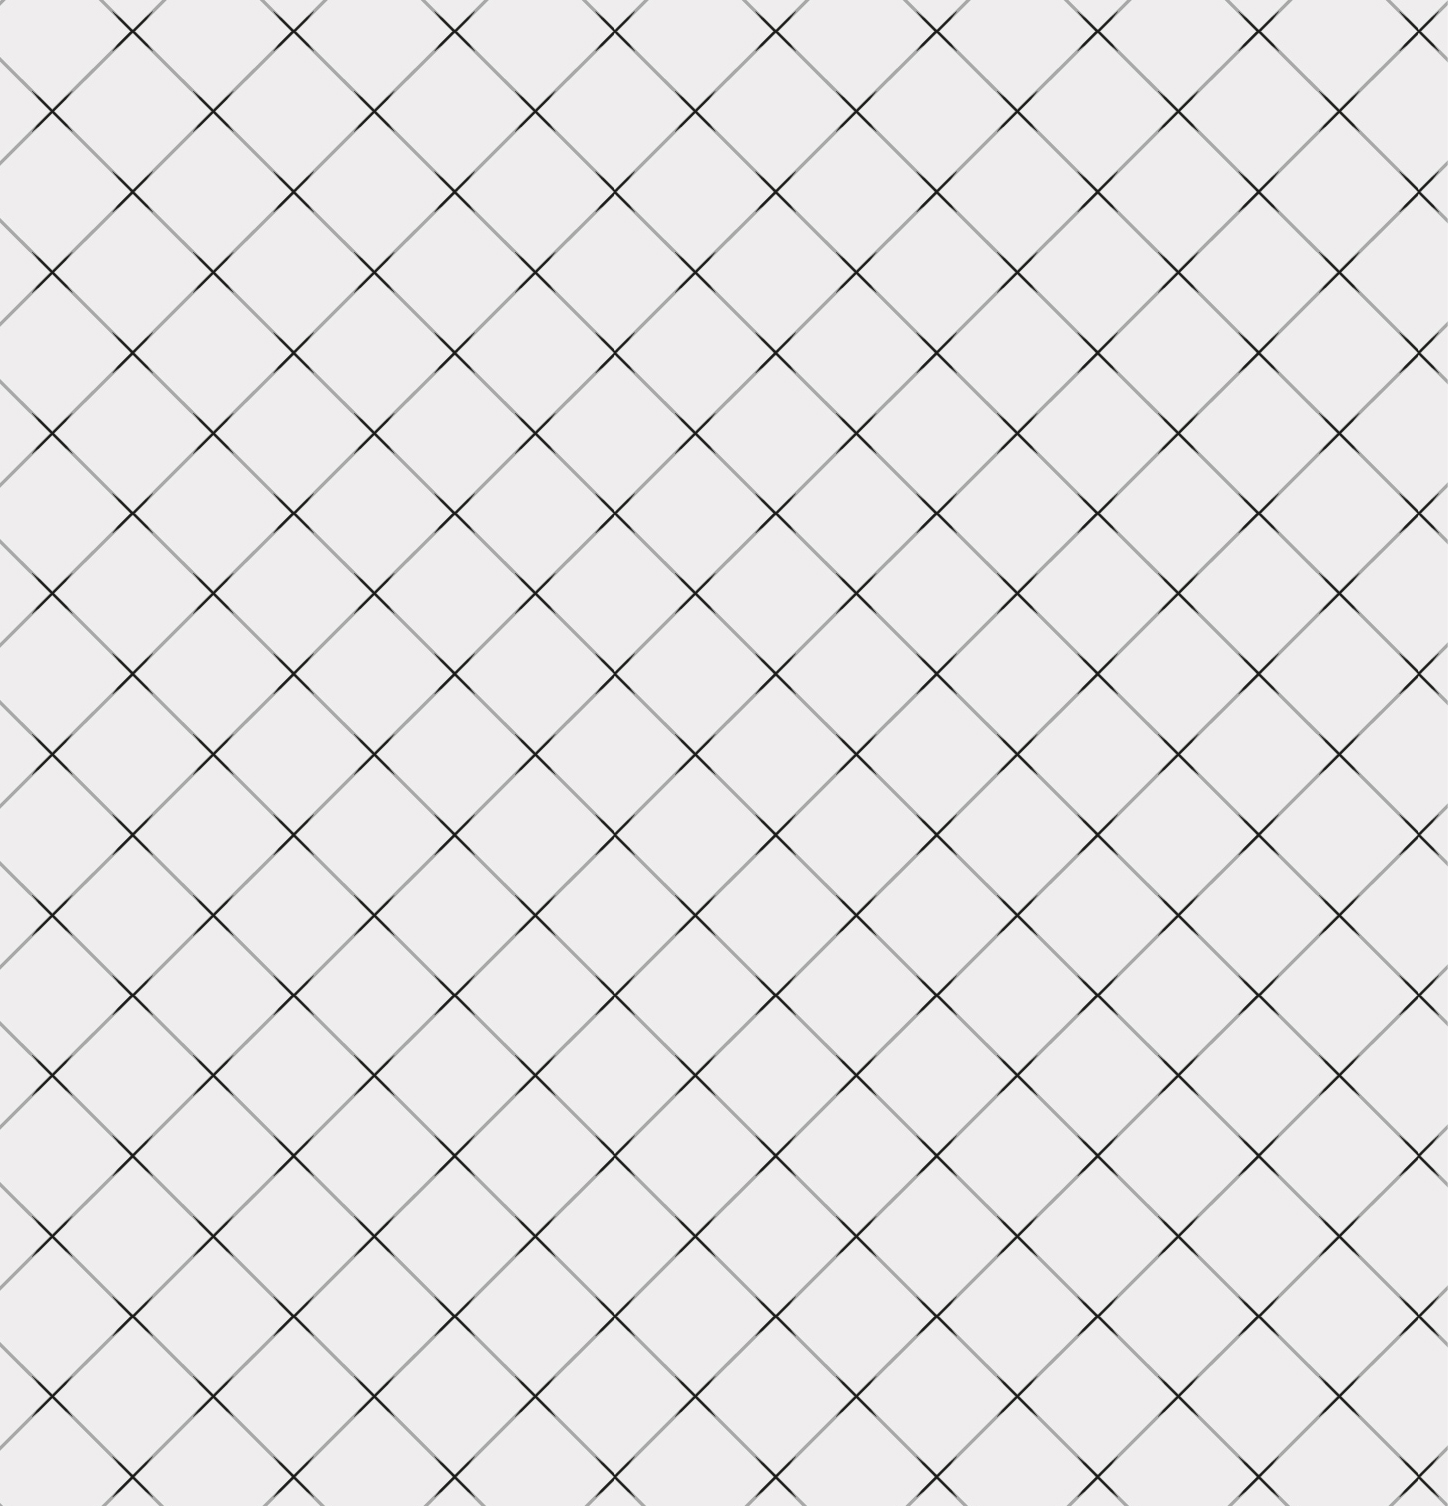
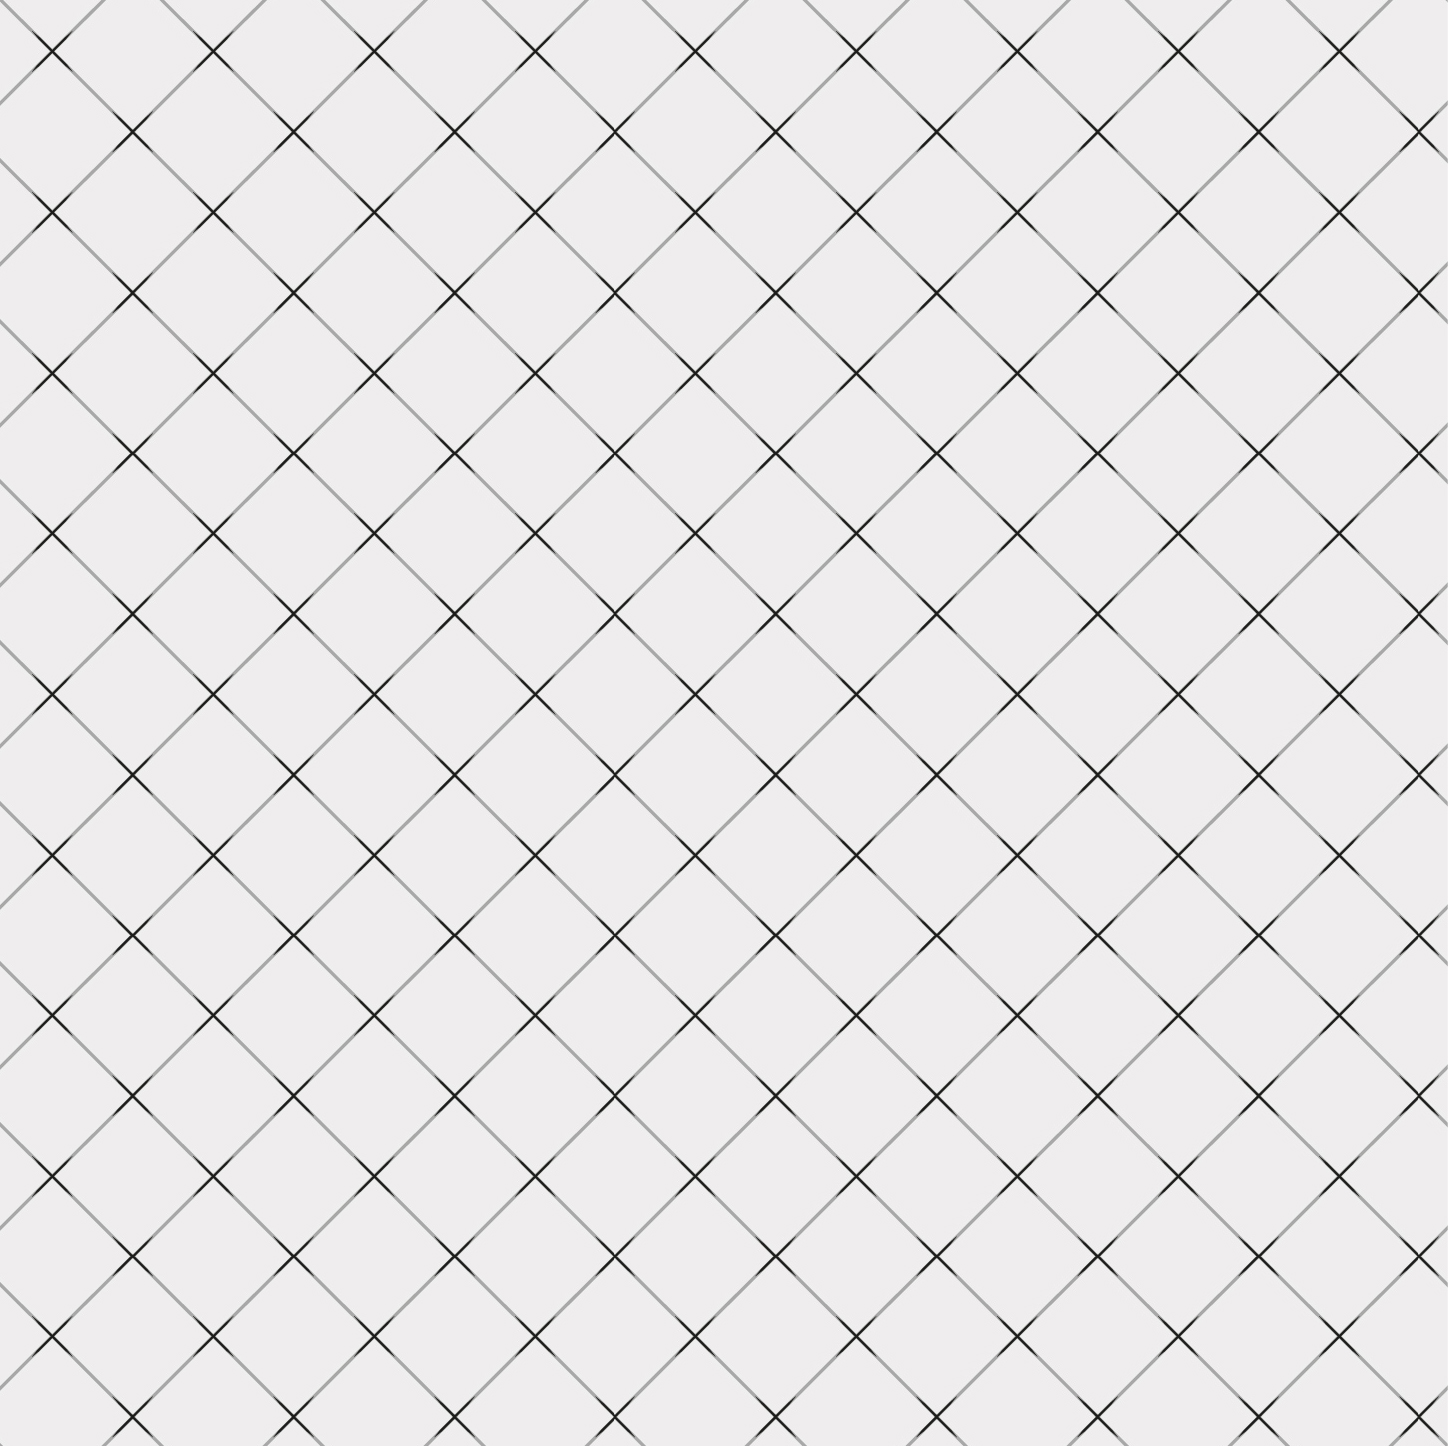
updated index.handndlebars

diff --git a/controller/controller.js b/controller/controller.js
@@ -12,14 +12,14 @@ var Comment = require('../models/Comment.js');
 var Article = require('../models/Article.js');
 
 //index
-router.get("/", function(req, res) {
-    res.render("index");
+router.get('/', function(req, res) {
+    res.render('index');
 });
 
 // A GET request to scrape the CNN website
-router.get("/scrape", function(req, res) {
+router.get('/scrape', function(req, res) {
     // First, we grab the body of the html with request
-    request("http://www.theverge.com/tech", function(error, response, html) {
+    request('http://www.theverge.com/tech', function(error, response, html) {
         // Then, we load that into cheerio and save it to $ for a shorthand selector
         var $ = cheerio.load(html);
         // Now, we grab every article
@@ -31,36 +31,46 @@ router.get("/scrape", function(req, res) {
             result.title = $(this).children('a').text();
             result.link = $(this).children('a').attr('href');
 
-            //grab body of article from scraped link
-            request(result.link, function(error, response, html) {
-                $('.c-entry-content').each(function(i, element) {
-                    result.body = $(this).children('p').text();
-                });
-            });
             // Using our Article model, create a new entry
             // This effectively passes the result object to the entry (and the title and link)
             var entry = new Article(result);
-                    console.log(entry);
-                    // Now, save that entry to the db
-                    entry.save(function(err, doc) {
-                        // Log any errors
-                        if (err) {
-                            console.log(err);
-                        }
-                        // Or log the doc
-                        else {
-                            console.log(doc);
-                        }
-                    });
+                // Now, save that entry to the db
+                entry.save(function(err, doc) {
+                    // Log any errors
+                    if (err) {
+                        console.log(err);
+                    }
+                    // Or log the doc
+                    else {
+                        console.log(doc);
+                    }
+                });
 
         });
     });
     // after scrape, redirects to index
-    res.redirect('/');
+    res.redirect('/articles');
 });
 
-// This will get the articles we scraped from the mongoDB
-router.get("/articles", function(req, res) {
+//this will grab every article an populate the DOM
+router.get('/articles', function(req, res) {
+    Article.find().sort({_id: 1})
+        //populate comments associated with article
+        .populate('comments')
+        //send to handlebars
+        .exec(function(err, doc) {
+            console.log(doc);
+            if(err){
+                console.log(err);
+            } else{
+                var artcl = {article: doc}
+                res.render('index', artcl);
+            }
+    });
+});
+
+// This will get the articles we scraped from the mongoDB in JSON
+router.get('/articles-json', function(req, res) {
     Article.find({}, function(err, doc) {
         if (err) {
             console.log(err);
@@ -70,7 +80,7 @@ router.get("/articles", function(req, res) {
     });
 });
 
-//test clear all
+//clear all articles for testing purposes
 router.get('/clearAll', function(req, res) {
     Article.remove({}, function(err, doc) {
         if (err) {
@@ -80,11 +90,11 @@ router.get('/clearAll', function(req, res) {
         }
 
     });
-    res.redirect('/articles');
+    res.redirect('/articles-json');
 });
 
 // Create a new comment
-router.post("/comment/:id", function(req, res) {
+router.post('/comment/:id', function(req, res) {
     var newComment = new Comment(req.body);
 
     newComment.save(function(err, doc) {

diff --git a/public/assets/css/style.css b/public/assets/css/style.css
@@ -1,6 +1,10 @@
 body{
   background: url('../img/motivo3-01.jpg') repeat;
-  background-size: 800px;
+  background-size: 600px;
   font-family: 'Oswald', sans-serif;
   font-size: 16px;
 }
+
+/*.card{
+  padding: 1px;
+}*/

diff --git a/models/Article.js b/models/Article.js
@@ -11,10 +11,6 @@ var ArticleSchema = new Schema({
     type: String,
     required: true
   }, 
-  body: {
-    type: String,
-    require: true
-  },
   comment: {
     type: Schema.Types.ObjectId,
     ref: "Comment"
